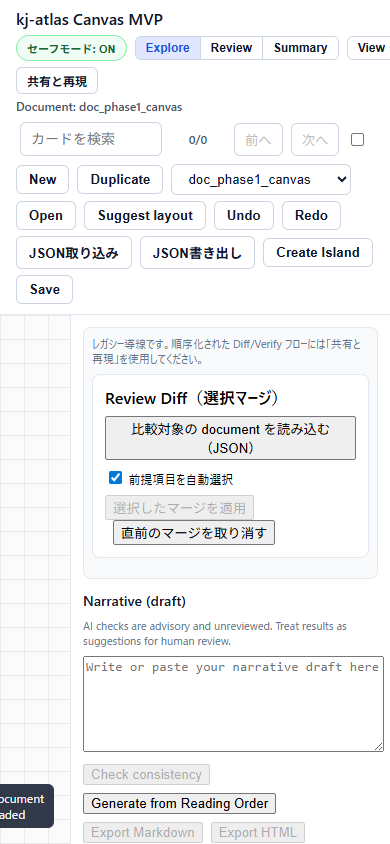
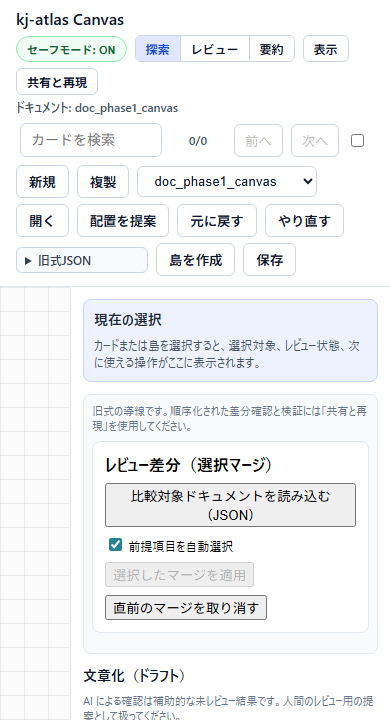
Add reproducible release screenshot capture

diff --git a/01_Plans/issues/issue-PRODUCT-QA-01-release-readiness-quality-gates.md b/01_Plans/issues/issue-PRODUCT-QA-01-release-readiness-quality-gates.md
@@ -1280,3 +1280,34 @@ DoDテンプレ（Draft→Open）
 - Keep H-UI-01 release screenshots and H-UI-02 physical keyboard traversal human-owned until actual Chrome screenshots and physical-keyboard evidence are attached.
 - Keep full release shipment No-Go until product value Open gates, full Compose startup, and final program approval are recorded together.
 - No ADR is needed for this refresh. ADR work is required only if the project changes SafeMode/share-export policy, first-run product boundaries, or schema/API responsibilities.
+
+## Productization Gate Record 2026-06-03: reproducible screenshot capture
+
+- Candidate: `codex/release-screenshot-capture-20260603`
+- Decision date (JST): 2026-06-03
+- Reviewer: Codex
+- Scope: release screenshot regeneration for public documentation and H-UI-01 evidence support. This record adds a deterministic Playwright capture script and refreshes the current public-documentation screenshots. It does not change runtime behavior, UI copy, SafeMode defaults, schema/API contracts, release authority, or Compose configuration.
+
+### Gate Summary
+
+- G2 primary user operations: Conditional Go improved. The screenshot script opens the start panel, opens the sample, selects a card, opens the share/export preflight, and captures the 390px mobile toolbar state from deterministic sample data.
+- G3 Japanese UI / i18n: Go for captured scope. Regenerated screenshots use `?locale=ja` and current Japanese UI labels.
+- G4 viewport and operability: Conditional Go improved. The capture set includes a 390px mobile screenshot and desktop start/overview/selection/share screenshots.
+- G5 public documentation: Conditional Go improved. Existing public-documentation screenshot assets were regenerated from the current UI, and the screenshot README now records the regeneration command.
+- Final: **Conditional Go for reproducible screenshot capture / No-Go for full release shipment**.
+
+### Evidence
+
+- Command: `node .\scripts\capture_release_screenshots.mjs`
+- Output files:
+  - `04_Documentation/assets/screenshots/start-document-entry.png`
+  - `04_Documentation/assets/screenshots/app-canvas-overview.png`
+  - `04_Documentation/assets/screenshots/selection-context-card.png`
+  - `04_Documentation/assets/screenshots/share-export-safe-mode.png`
+  - `04_Documentation/assets/screenshots/mobile-toolbar-smoke-390.png`
+- Server behavior: script starts temporary Vite when port 4173 is free and stops it after capture.
+
+### Follow-ups
+
+- H-UI-01 is now partially automated. Human review is still required to approve the screenshots as release evidence and confirm no secrets or organization-specific data are visible.
+- H-UI-02 physical keyboard traversal remains human-owned unless a later task adds equivalent real-browser evidence.

diff --git a/01_Plans/issues/issue-MVP-EXIT-01-productization-readiness.md b/01_Plans/issues/issue-MVP-EXIT-01-productization-readiness.md
@@ -811,3 +811,29 @@
 - Owner: Codex for evidence maintenance; Productization Program Owner / QA Lead required for final shipment decision.
 - Due date: next release-candidate evidence review.
 - Re-decision date: after H-UI-01/H-UI-02 evidence, value-gate evidence packets, and full Compose startup evidence are recorded, or after a material runtime/product change reaches `main`.
+
+## MVP-EXIT Program Gate Decision 2026-06-03: reproducible screenshot capture
+
+- Candidate: `codex/release-screenshot-capture-20260603`
+- Decision date: 2026-06-03
+- Reviewer: Codex
+- Input sources:
+  - PRODUCT-QA-01 gate record: `Productization Gate Record 2026-06-03: reproducible screenshot capture`.
+  - Frontend script: `03_Implement/frontend/scripts/capture_release_screenshots.mjs`.
+  - Public-documentation screenshot assets under `04_Documentation/assets/screenshots/`.
+
+### Decision
+
+- Final: **Conditional Go for reproducible screenshot capture / No-Go for full release shipment**
+- Reason summary: The release screenshot capture path is now reproducible through a deterministic Playwright script, and current public-documentation screenshot assets were refreshed from the current UI. This reduces H-UI-01 manual effort but does not replace final human approval, physical keyboard traversal, product value Open gates, full Compose startup, or final program approval.
+- Escalation route: keep `PRODUCT-QA-01` as the screenshot evidence steward. Treat the generated screenshots as candidate evidence that Productization Program Owner / QA Lead still need to approve.
+
+### Conditional controls
+
+- Remaining risks:
+  - Human review must still confirm that the regenerated screenshots are acceptable release evidence and contain no secrets or organization-specific data.
+  - Physical keyboard traversal remains unapproved.
+  - Product value evidence packets and full Compose startup remain required before shipment.
+- Owner: Codex for evidence automation; Productization Program Owner / QA Lead required for evidence acceptance.
+- Due date: next release-candidate evidence review.
+- Re-decision date: after screenshot approval, H-UI-02 evidence, value-gate evidence packets, and full Compose startup evidence are recorded.

diff --git a/04_Documentation/assets/screenshots/README.md b/04_Documentation/assets/screenshots/README.md
@@ -22,3 +22,21 @@
 | `view-controls-safe-mode.png` | `View` パネルの表示設定と SafeMode |
 | `diagnostics-quality-report.png` | diagnostics 実行後の品質レポート |
 | `mobile-toolbar-smoke-390.png` | 390px viewport のヘッダーと主要操作 |
+
+## Regeneration
+
+Use the frontend screenshot capture script when the visible UI changes:
+
+```powershell
+cd 03_Implement/frontend
+C:\Users\yhata\.cache\codex-runtimes\codex-primary-runtime\dependencies\node\bin\node.exe .\scripts\capture_release_screenshots.mjs
+```
+
+The script starts a temporary Vite server when port 4173 is free, uses deterministic sample data, hides the transient status message for stable public images, captures the public-documentation screenshots, and stops the server when it started it.
+
+Optional environment variables:
+
+- `KJ_ATLAS_SCREENSHOT_OUTPUT_DIR`: output directory. Defaults to `04_Documentation/assets/screenshots`.
+- `KJ_ATLAS_SCREENSHOT_BASE_URL`: target URL. Defaults to `http://127.0.0.1:4173/?locale=ja`.
+- `KJ_ATLAS_SCREENSHOT_HOST`: Vite host. Defaults to `127.0.0.1`.
+- `KJ_ATLAS_SCREENSHOT_PORT`: Vite port. Defaults to `4173`.
